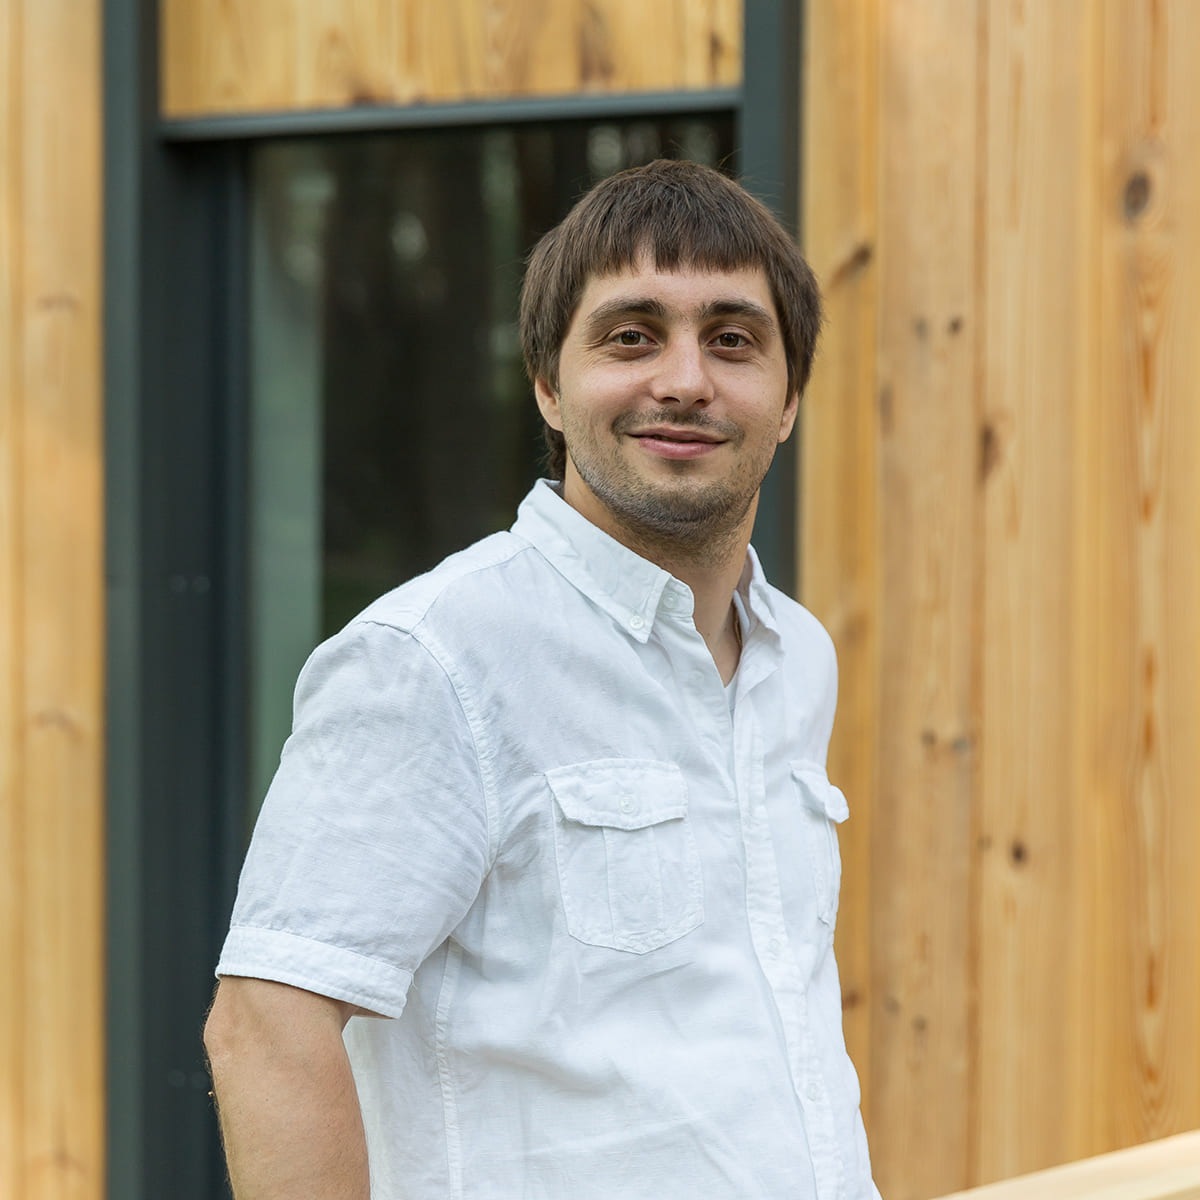
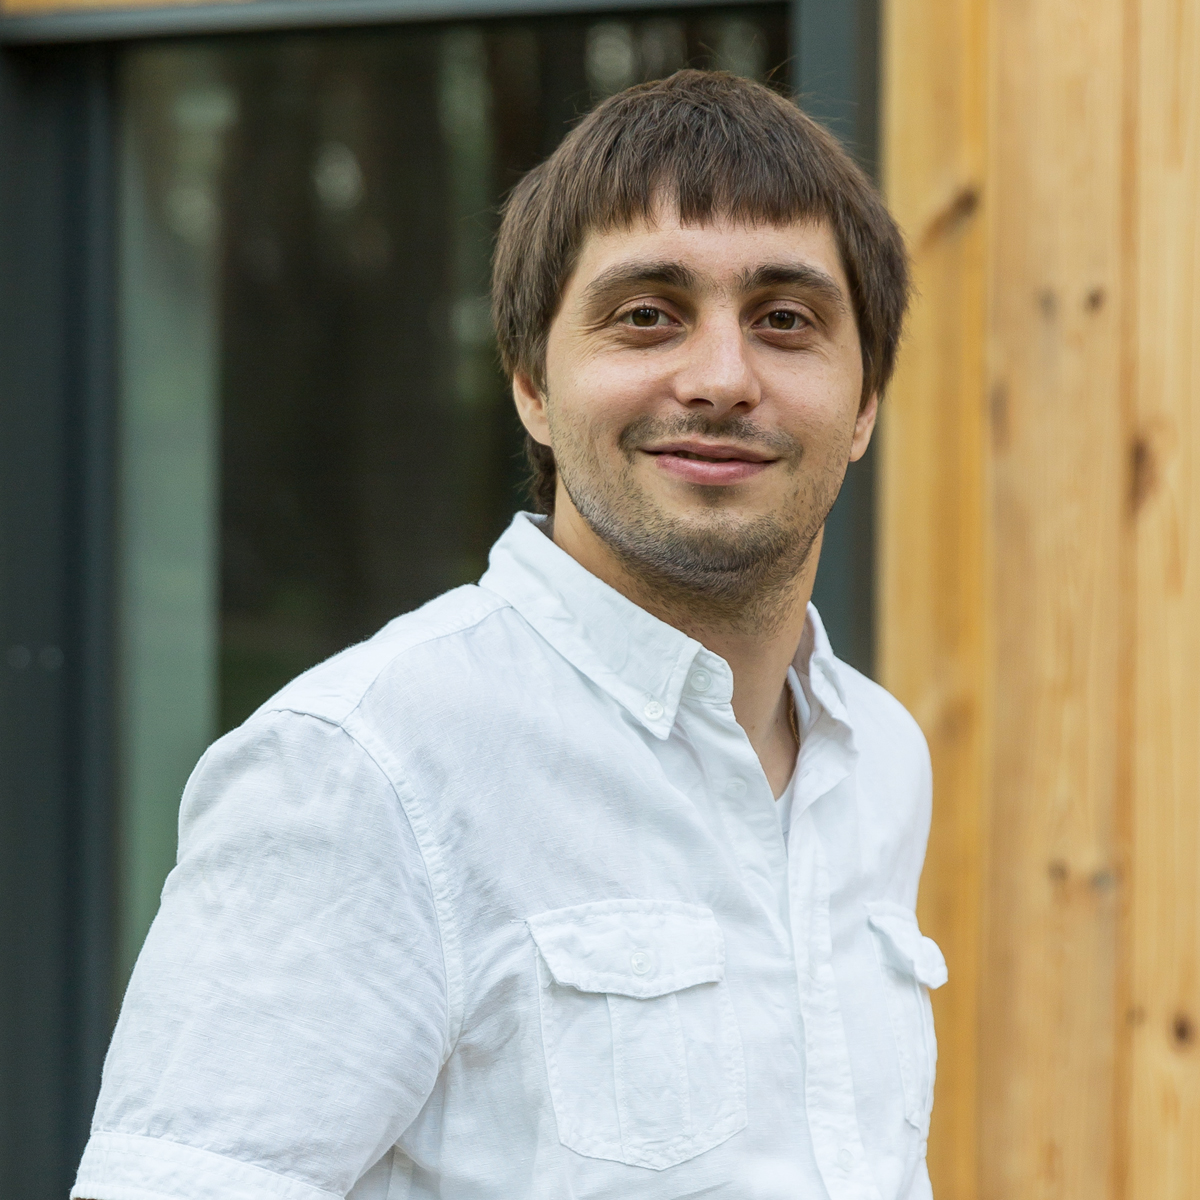
Add files via upload

diff --git a/index.html b/index.html
@@ -139,9 +139,6 @@
         <div class="container first__section-content">
             <h1 class="first__section-title">Хтось першим зробить те, <br>
                 що всім здавалось неможливим</h1>
-            <p class="first__section-subtitle">Lorem ipsum dolor sit amet, consectetur adipiscing elit, sed do eiusmod
-                tempor incididunt ut labore et dolore magna aliqua. Ut enim ad minim veniam, quis nostrud exercitation
-                ullamco laboris nisi ut aliquip ex ea commodo consequat.</p>
         </div>
         <div class="first__section-overlay"></div>
     </section>
@@ -275,7 +272,7 @@
             <div class="contact__way-list">
                 <div class="contact__way-item">
                     <img src="img/location_green.svg" alt="Location">
-                    <a href="https://goo.gl/maps/KRdSJEbCEz7i5MGW7">01042, Київ, Україна <br>
+                    <a href="https://goo.gl/maps/zosP3jrXthJppmcB8">01042, Київ, Україна <br>
                         вул. Філатова, 2/1, офіс 288</a>
                 </div>
                 <div class="contact__way-item">

diff --git a/sass/style.sass b/sass/style.sass
@@ -190,7 +190,7 @@ header.active
     position: relative
     z-index: 1
     max-width: 835px
-    margin-bottom: 8%
+    margin-bottom: 16%
     margin-left: -16%
 .first__section-title
     color: #ffffff
@@ -200,12 +200,6 @@ header.active
     letter-spacing: normal
     line-height: 64px
     text-transform: uppercase
-.first__section-subtitle
-    color: #ffffff
-    font-size: 18px
-    font-weight: 300
-    line-height: 36px
-    margin-top: 44px
 .second__section-content
     max-width: 950px
     margin: 0 auto
@@ -283,6 +277,7 @@ header.active
     margin: auto
     width: 100%
     object-fit: cover
+    object-position: top
 .slider__nav
     display: flex
     justify-content: space-between
@@ -649,9 +644,6 @@ footer p
         width: 100%
     .first__section-title
         font-size: 28px
-    .first__section-subtitle
-        font-size: 14px
-        line-height: 27px
     .first__section
         min-height: 400px
     header
@@ -693,8 +685,6 @@ footer p
 @media (max-width: 640px)
     .container
         padding: 0 25px
-    .first__section-subtitle
-        display: none
     .first__section-title
         font-size: 22px
         line-height: 38px

diff --git a/css/style.css b/css/style.css
@@ -285,7 +285,7 @@ header.active .header__logo .cls-1, header.active .header__logo .cls-2 {
   position: relative;
   z-index: 1;
   max-width: 835px;
-  margin-bottom: 8%;
+  margin-bottom: 16%;
   margin-left: -16%;
 }
 
@@ -297,14 +297,6 @@ header.active .header__logo .cls-1, header.active .header__logo .cls-2 {
   letter-spacing: normal;
   line-height: 64px;
   text-transform: uppercase;
-}
-
-.first__section-subtitle {
-  color: #ffffff;
-  font-size: 18px;
-  font-weight: 300;
-  line-height: 36px;
-  margin-top: 44px;
 }
 
 .second__section-content {
@@ -419,6 +411,7 @@ header.active .header__logo .cls-1, header.active .header__logo .cls-2 {
   margin: auto;
   width: 100%;
   object-fit: cover;
+  object-position: top;
 }
 
 .slider__nav {
@@ -953,10 +946,6 @@ footer p {
   .first__section-title {
     font-size: 28px;
   }
-  .first__section-subtitle {
-    font-size: 14px;
-    line-height: 27px;
-  }
   .first__section {
     min-height: 400px;
   }
@@ -1016,9 +1005,6 @@ footer p {
 @media (max-width: 640px) {
   .container {
     padding: 0 25px;
-  }
-  .first__section-subtitle {
-    display: none;
   }
   .first__section-title {
     font-size: 22px;

diff --git a/project-item.html b/project-item.html
@@ -208,7 +208,7 @@
             <div class="contact__way-list">
                 <div class="contact__way-item">
                     <img src="img/location_white.svg" alt="Location">
-                    <a href="https://goo.gl/maps/KRdSJEbCEz7i5MGW7">01042, Київ, Україна <br>
+                    <a href="https://goo.gl/maps/zosP3jrXthJppmcB8">01042, Київ, Україна <br>
                         вул. Філатова, 2/1, офіс 288</a>
                 </div>
                 <div class="contact__way-item">

diff --git a/project.html b/project.html
@@ -213,7 +213,7 @@
             <div class="contact__way-list">
                 <div class="contact__way-item">
                     <img src="img/location_white.svg" alt="Location">
-                    <a href="https://goo.gl/maps/KRdSJEbCEz7i5MGW7">01042, Київ, Україна <br>
+                    <a href="https://goo.gl/maps/zosP3jrXthJppmcB8">01042, Київ, Україна <br>
                         вул. Філатова, 2/1, офіс 288</a>
                 </div>
                 <div class="contact__way-item">
